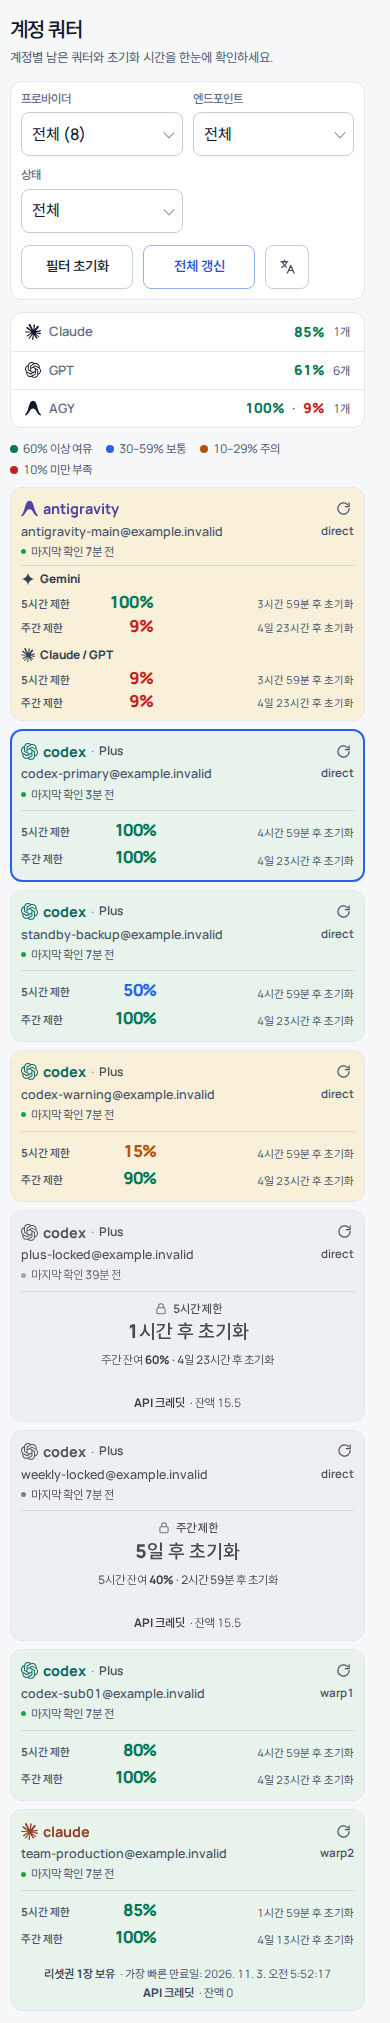
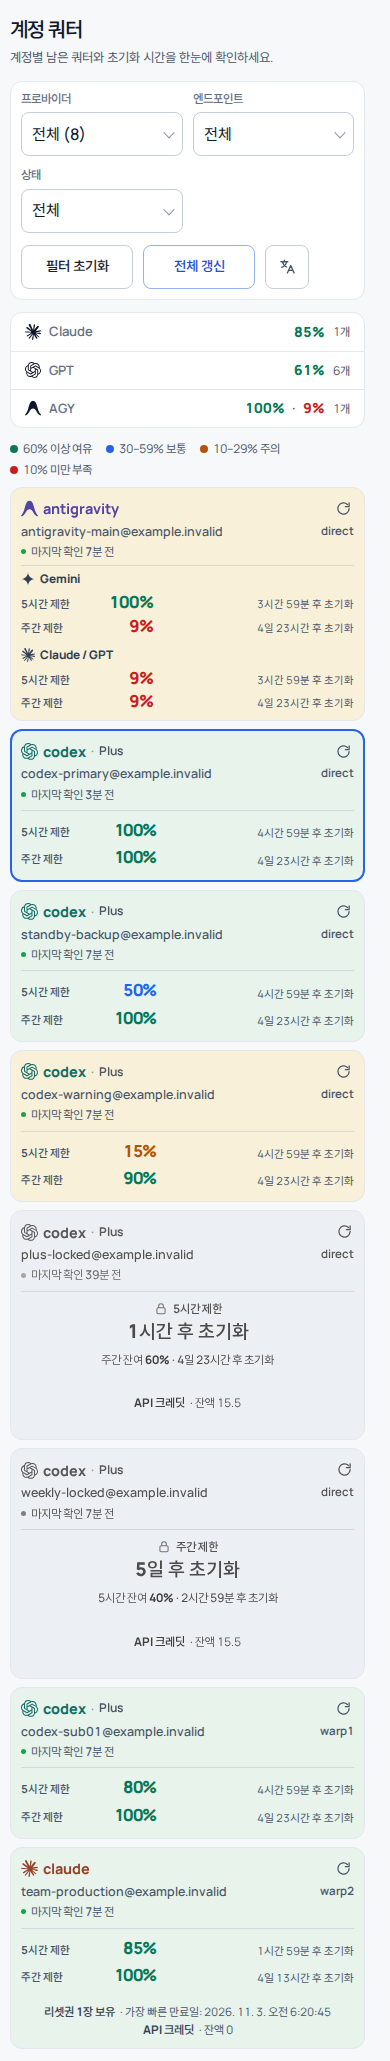
fix(dashboard): shorter shared card height without moving values
- tighter locked antigravity blocks and a smaller footer zone: tallest card 270px -> 246px
- values stay at the same height across cards; locked heading offset unchanged
- README screenshots refreshed

diff --git a/internal/dashboard/style.css b/internal/dashboard/style.css
@@ -551,3 +551,13 @@
      not centred in the spare height, so the 'weekly limit' line never floats away from or hugs the divider. */
   .account-card:not([data-provider="antigravity"]):has(.quota-lock-state) .card-quota { justify-content: flex-start; padding-top: 8px; }
   .account-card:not([data-provider="antigravity"]) .quota-lock-state { padding-top: 0; }
+
+  /* ---- Height diet: the tallest possible card is two locked antigravity sections (270px). Tighten the
+     locked blocks and the footer zone so the shared row height drops without moving any value between cards. ---- */
+  .ag-family-stack:has(.is-locked) { gap: 4px; }
+  .ag-family-section.is-locked { padding-top: 6px; padding-bottom: 4px; }
+  .ag-family-section.is-locked:first-child { padding-top: 4px; }
+  .ag-family-lock-time { font-size: 1.1rem; }
+  .ag-family-lock { gap: 1px; }
+  .account-card:not([data-provider="antigravity"]):not(:has(.credit-summary))::after { flex-basis: 44px; }
+  .account-card:not([data-provider="antigravity"]) .credit-summary { min-height: 44px; }
